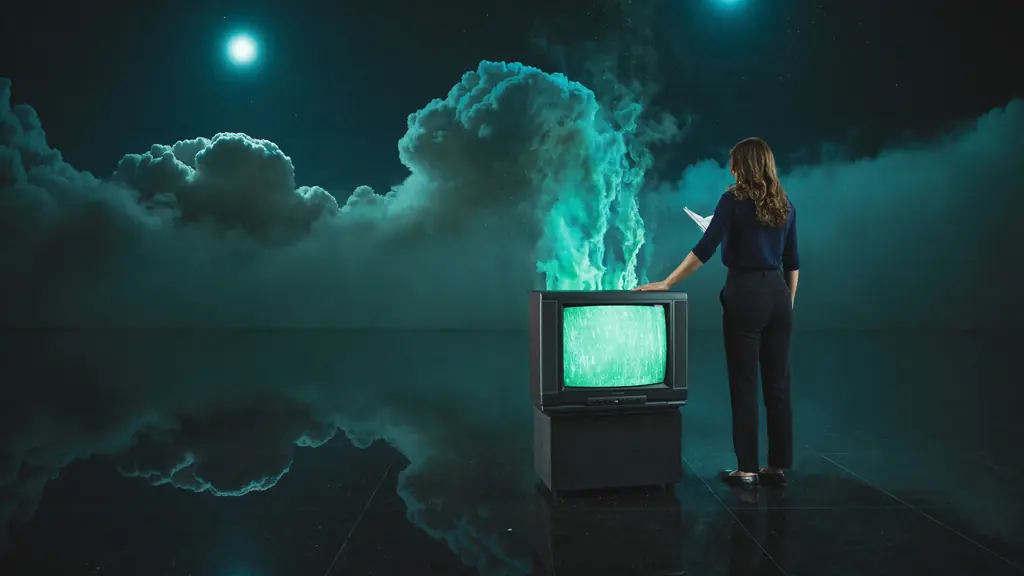
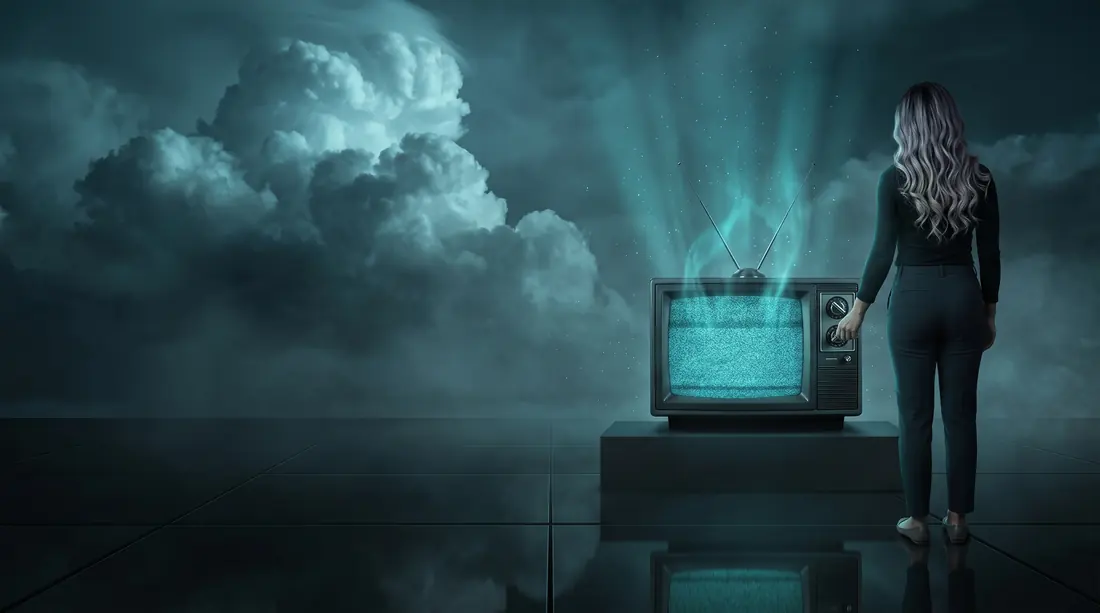
Rebuild the hero from Ayanna's own reference photos
Single set with rabbit ears and chrome tuner knobs, her hand on the dial
mid-tune, flats, no invented props. Glitch rect re-measured for the new
plate.

diff --git a/app/ops.css b/app/ops.css
@@ -235,9 +235,9 @@ html.ops-smooth.lenis-scrolling .op {
 
 .ops-portal__inner {
   position: absolute;
-  left: 62%;
+  left: 70%;
   top: 50%;
-  transform: translate(-62%, -50%);
+  transform: translate(-70%, -50%);
   width: max(100%, calc(100svh * 16 / 9));
   height: max(100%, calc(100vw * 9 / 16));
 }
@@ -252,10 +252,10 @@ html.ops-smooth.lenis-scrolling .op {
 /* The set's screen glass, measured off the plate */
 .ops-glitch {
   position: absolute;
-  left: 55%;
-  top: 52.8%;
-  width: 10.1%;
-  height: 14.1%;
+  left: 60.8%;
+  top: 48.6%;
+  width: 12.6%;
+  height: 16.3%;
   overflow: hidden;
   border-radius: 7% / 9%;
   mix-blend-mode: screen;
@@ -1054,8 +1054,8 @@ body:has(.ops) .consent-banner .btn-secondary {
   }
 
   .ops-portal__inner {
-    left: 70%;
-    transform: translate(-70%, -50%);
+    left: 76%;
+    transform: translate(-76%, -50%);
     width: max(100%, calc(54svh * 16 / 9));
     height: max(100%, calc(100vw * 9 / 16));
   }

diff --git a/components/ops/OpsPage.tsx b/components/ops/OpsPage.tsx
@@ -150,15 +150,15 @@ export default function OpsPage() {
                   <picture>
                     <source srcSet="/hero/portal.avif" type="image/avif" />
                     <source
-                      srcSet="/hero/portal-sm.webp 1024w, /hero/portal.webp 2048w"
+                      srcSet="/hero/portal-sm.webp 1100w, /hero/portal.webp 2200w"
                       sizes="100vw"
                       type="image/webp"
                     />
                     <img
                       src="/hero/portal.jpg"
                       alt=""
-                      width={2048}
-                      height={1152}
+                      width={2200}
+                      height={1227}
                       fetchPriority="high"
                       className="ops-portal__img"
                     />
